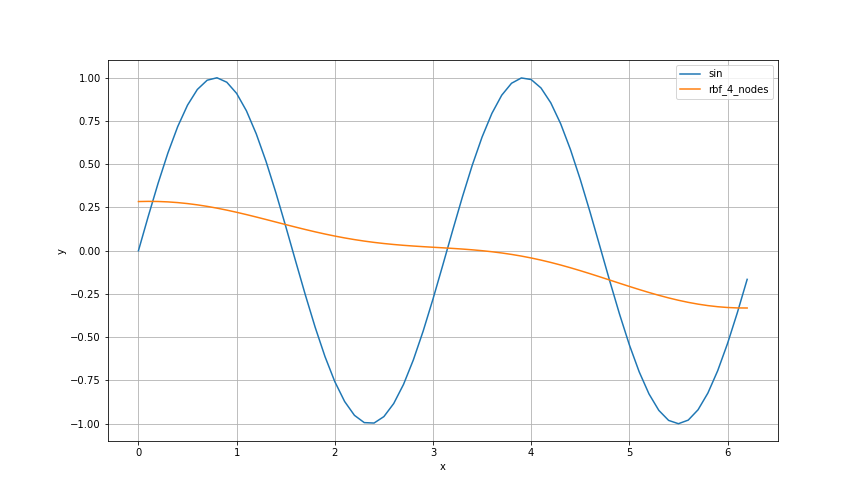
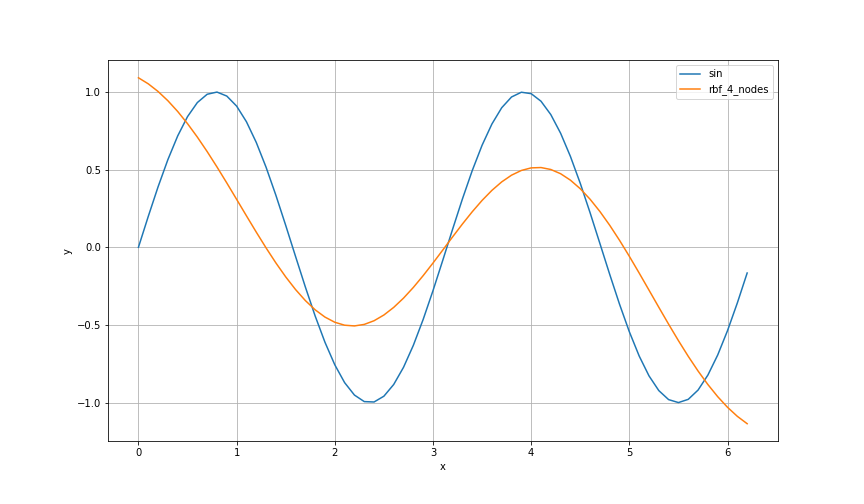
fix: fix least squares

diff --git a/lab2/src/RBF_network.py b/lab2/src/RBF_network.py
@@ -50,7 +50,8 @@ def _fit_least_squares(
         error_per_epoch: dict
 ) -> np.array:
 
-    weights = np.linalg.inv(X.T @ X) @ X.T @ y
+    weights = np.linalg.inv(X @ X.T) @ X @ y.T
+    weights = weights.T
 
     raw_prediction = weights @ X
     error_per_epoch['mse'] = [mean_squared_error(y, raw_prediction) for _ in range(max_iterations)]
